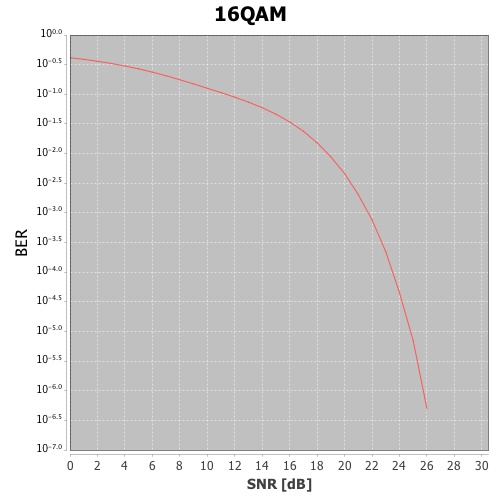
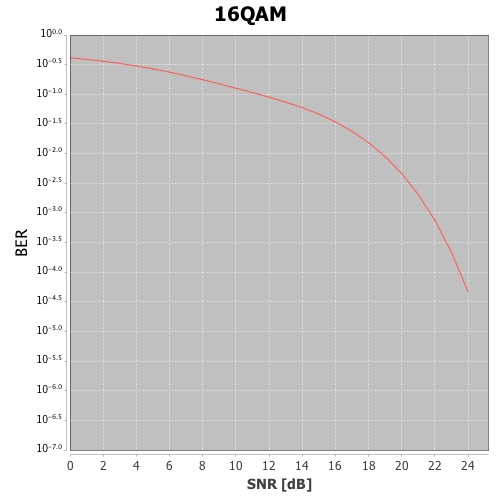
update readme and images

diff --git a/src/as/Main.java b/src/as/Main.java
@@ -23,8 +23,8 @@ import java.util.List;
  * Created by khrom on 2017/04/22.
  */
 public class Main extends JFrame {
-    private static int SN_RANGE = 30;//計算するDB数。この数だけスレッド生成する
-    private static double BIT_NUM = Math.pow(10, 6);
+    private static int SN_RANGE = 25;//計算するDB数。この数だけスレッド生成する
+    private static double BIT_NUM = Math.pow(10, 7);
     private static int FC = 50; //carrier freq
     private static double BPSK = 1 * Math.cos(2 * Math.PI * FC * 0 + (1) * Math.PI);//r=1
     private static double QPSK = 1 * Math.cos(2 * Math.PI * FC * 0 + (1 / 4.0) * Math.PI);//r=1,象限で区切るためにπ/4だけずらしている。
@@ -56,48 +56,48 @@ public class Main extends JFrame {
         long start = System.currentTimeMillis();
 
 
-//        List<CalBPSK> calBPSKS = new ArrayList<>();
-//        for (int i = 0; i < SN_RANGE; i++) {
-//            calBPSKS.add(new CalBPSK(i));
-//            calBPSKS.get(i).start();
-//        }
-//        calBPSKS.forEach(s -> {
-//            try {
-//                s.join();
-//            } catch (InterruptedException e) {
-//                e.printStackTrace();
-//            }
-//        });
-//
-//        List<Double> dataList = new ArrayList<>();
-//        calBPSKS.forEach(s -> dataList.add(s.res));
-//
-//        main.createChart(dataList, "BPSK");
-        long end = System.currentTimeMillis();
-//        System.out.println("time" + (end - start) + "ms");
+        List<CalBPSK> calBPSKS = new ArrayList<>();
+        for (int i = 0; i < SN_RANGE; i++) {
+            calBPSKS.add(new CalBPSK(i));
+            calBPSKS.get(i).start();
+        }
+        calBPSKS.forEach(s -> {
+            try {
+                s.join();
+            } catch (InterruptedException e) {
+                e.printStackTrace();
+            }
+        });
 
-////        //qpsk
-//        start = System.currentTimeMillis();
-//
-//        List<CalQPSK> calQPSKS = new ArrayList<>();
-//        for (int i = 0; i < SN_RANGE; i++) {
-//            calQPSKS.add(new CalQPSK(i));
-//            calQPSKS.get(i).start();
-//        }
-//        calQPSKS.forEach(s -> {
-//            try {
-//                s.join();
-//            } catch (InterruptedException e) {
-//                e.printStackTrace();
-//            }
-//        });
-//
-//        List<Double> dataLists = new ArrayList<>();
-//        calQPSKS.forEach(s -> dataLists.add(s.res));
-//
-//        main.createChart(dataLists, "QPSK");
-//        end = System.currentTimeMillis();
-//        System.out.println("time" + (end - start) + "ms");
+        List<Double> dataList = new ArrayList<>();
+        calBPSKS.forEach(s -> dataList.add(s.res));
+
+        main.createChart(dataList, "BPSK");
+        long end = System.currentTimeMillis();
+        System.out.println("time" + (end - start) + "ms");
+
+//        //qpsk
+        start = System.currentTimeMillis();
+
+        List<CalQPSK> calQPSKS = new ArrayList<>();
+        for (int i = 0; i < SN_RANGE; i++) {
+            calQPSKS.add(new CalQPSK(i));
+            calQPSKS.get(i).start();
+        }
+        calQPSKS.forEach(s -> {
+            try {
+                s.join();
+            } catch (InterruptedException e) {
+                e.printStackTrace();
+            }
+        });
+
+        List<Double> dataLists = new ArrayList<>();
+        calQPSKS.forEach(s -> dataLists.add(s.res));
+
+        main.createChart(dataLists, "QPSK");
+        end = System.currentTimeMillis();
+        System.out.println("time" + (end - start) + "ms");
 
 //        //16qam
         start = System.currentTimeMillis();

diff --git a/README.md b/README.md
@@ -21,9 +21,9 @@ qpsk|出来た
 16qam|よくわからんがそれっぽい
 
 # 実行結果
-![bpsk](https://raw.githubusercontent.com/Khromium/tusinhentyo/master/res/bpsk.jpg)
-![qpsk](https://raw.githubusercontent.com/Khromium/tusinhentyo/master/res/qpsk.jpg)
-![16qam](https://raw.githubusercontent.com/Khromium/tusinhentyo/master/res/16qam.jpg)
+![bpsk](https://raw.githubusercontent.com/Khromium/tusinhentyo/master/res/BPSK.jpg)
+![qpsk](https://raw.githubusercontent.com/Khromium/tusinhentyo/master/res/QPSK.jpg)
+![16qam](https://raw.githubusercontent.com/Khromium/tusinhentyo/master/res/16QAM.jpg)
 
 # 使用環境
 - java8
